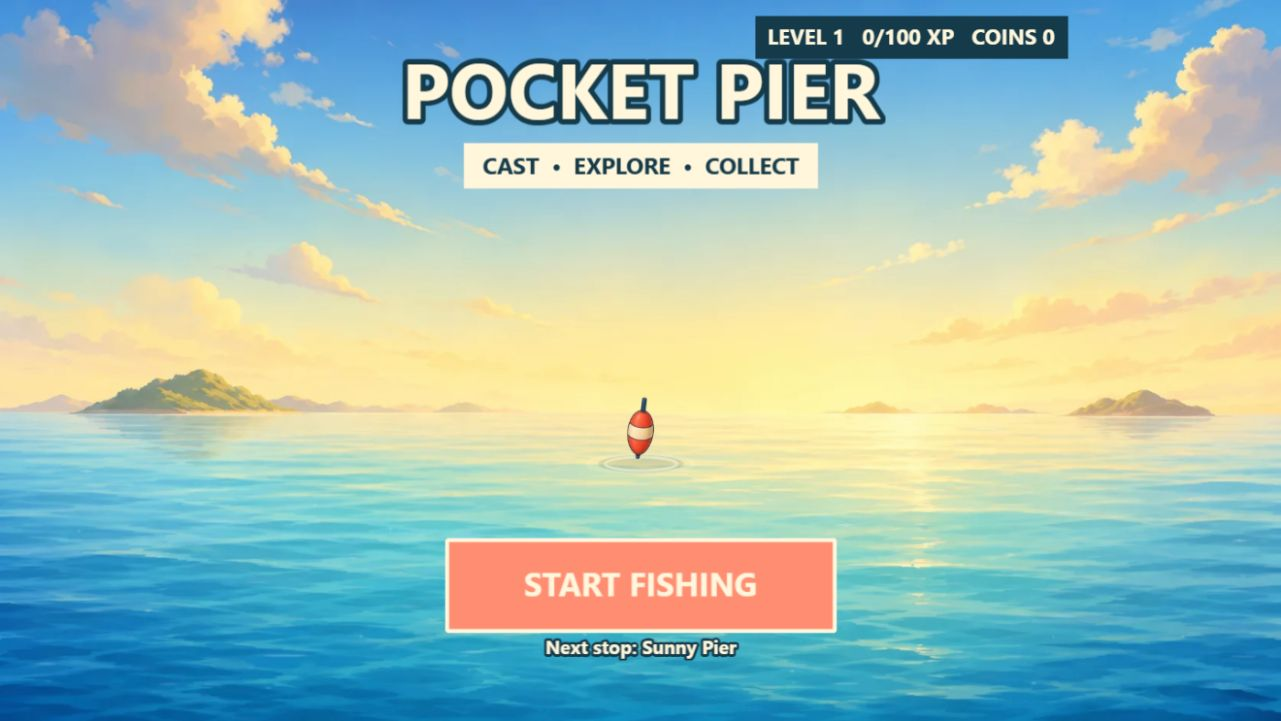
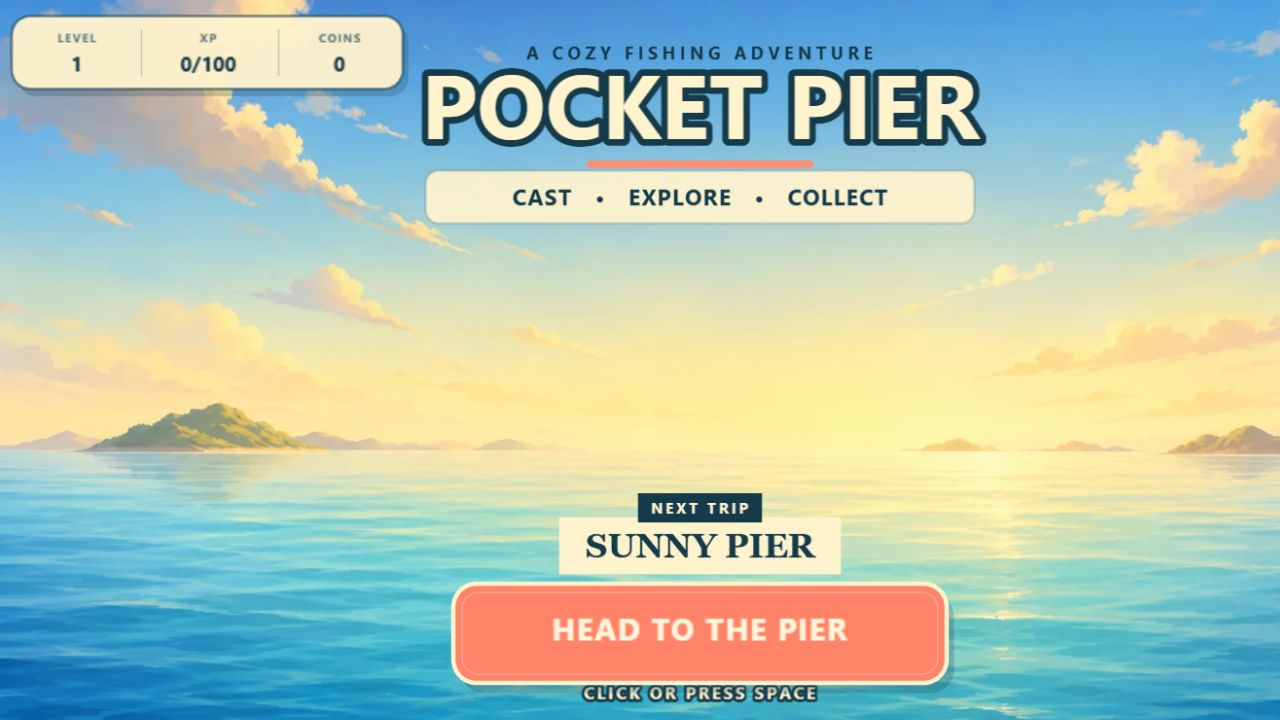
Redesign main menu presentation

diff --git a/src/scenes/MainMenuScene.ts b/src/scenes/MainMenuScene.ts
@@ -4,8 +4,6 @@ import { COLORS, GAME_WIDTH } from '../core/GameConfig';
 import { compactViewport, configureSceneRendering, visibleGameBounds } from '../core/RenderQuality';
 import { SaveService } from '../core/SaveService';
 import { PortalBridge } from '../core/PortalBridge';
-import { button } from '../ui/Button';
-import { bobberStyle } from '../gameplay/Cosmetics';
 
 export class MainMenuScene extends Phaser.Scene {
   constructor(){super('Menu')}
@@ -21,39 +19,48 @@ export class MainMenuScene extends Phaser.Scene {
     this.add.image(w/2,270,'menu-ocean-morning').setDisplaySize(960,540);
     const shimmer=this.add.image(w/2,270,'menu-water-shimmer').setDisplaySize(960,540).setAlpha(.2);
 
+    const eyebrow=this.add.text(w/2,43,'A COZY FISHING ADVENTURE',{
+      fontFamily:'system-ui',fontSize:'12px',fontStyle:'bold',color:'#153a4a'
+    }).setOrigin(.5).setLetterSpacing(3).setDepth(20);
     const title=this.add.text(w/2,83,'POCKET PIER',{
-      fontFamily:'system-ui',fontSize:'58px',fontStyle:'bold',color:'#fff6dc',stroke:'#153a4a',strokeThickness:8
+      fontFamily:'system-ui',fontSize:'62px',fontStyle:'bold',color:'#fff3ce',stroke:'#153a4a',strokeThickness:9
     }).setOrigin(.5).setDepth(20);
-    const tagline=this.add.text(w/2,139,'CAST  •  EXPLORE  •  COLLECT',{
-      fontFamily:'system-ui',fontSize:'17px',fontStyle:'bold',color:'#153a4a',backgroundColor:'#fff6dc'
-    }).setPadding(14,7).setOrigin(.5).setDepth(20);
+    const titleAccent=this.add.graphics().setDepth(19);
+    const taglinePaper=this.add.graphics().setDepth(18);
+    const tagline=this.add.text(w/2,143,'CAST   •   EXPLORE   •   COLLECT',{
+      fontFamily:'system-ui',fontSize:'15px',fontStyle:'bold',color:'#153a4a'
+    }).setOrigin(.5).setLetterSpacing(1).setDepth(20);
 
-    const bobber=this.add.image(w/2,322,'bobber-basic').setDisplaySize(58,60).setTint(bobberStyle(save).tint).setDepth(12);
-    const bobberShadow=this.add.ellipse(w/2,347,64,13,0x153a4a,.12).setDepth(10);
-    const bobberRing=this.add.ellipse(w/2,347,54,10).setStrokeStyle(2,0xfff6dc,.55).setDepth(11);
     if(!reducedMotion){
       this.tweens.add({targets:shimmer,alpha:{from:.12,to:.25},x:w/2+5,duration:4700,yoyo:true,repeat:-1,ease:'Sine.inOut'});
-      this.tweens.add({targets:bobber,angle:{from:-1.2,to:1.2},duration:2100,yoyo:true,repeat:-1,ease:'Sine.inOut'});
-      this.time.addEvent({delay:2450,loop:true,callback:()=>this.spawnRipple(bobber.x,bobber.y+25)});
       this.scheduleGull(true);
     }
 
-    const startButton=button(this,w/2,438,'START FISHING',()=>this.startFishing(save.lastLocationId),290,68).setDepth(30);
-    const nextStop=this.add.text(w/2,484,`Next stop: ${this.locationLabel(save.lastLocationId)}`,{
-      fontFamily:'system-ui',fontSize:'14px',fontStyle:'bold',color:'#fff6dc',stroke:'#153a4a',strokeThickness:4
-    }).setOrigin(.5).setDepth(20);
-    const progressText=this.add.text(w-18,18,`LEVEL ${progress.level}   ${xpLabel}   COINS ${save.coins}`,{
-      fontFamily:'system-ui',fontSize:'16px',fontStyle:'bold',color:'#fff6dc',backgroundColor:'#153a4a'
-    }).setOrigin(1,0).setPadding(9,7).setDepth(30);
+    const destinationLabel=this.add.text(w/2,351,'NEXT TRIP',{
+      fontFamily:'system-ui',fontSize:'10px',fontStyle:'bold',color:'#fff3ce',backgroundColor:'#153a4a'
+    }).setPadding(9,4).setOrigin(.5).setLetterSpacing(2).setDepth(22);
+    const destinationName=this.add.text(w/2,373,this.locationLabel(save.lastLocationId).toUpperCase(),{
+      fontFamily:'Georgia, serif',fontSize:'23px',fontStyle:'bold',color:'#153a4a',backgroundColor:'#fff3ce'
+    }).setPadding(18,7).setOrigin(.5).setDepth(21);
+    const startButton=this.createPrimaryButton(w/2,438,'HEAD TO THE PIER',()=>this.startFishing(save.lastLocationId));
+    const inputHint=this.add.text(w/2,488,'CLICK OR PRESS SPACE',{
+      fontFamily:'system-ui',fontSize:'11px',fontStyle:'bold',color:'#fff3ce',stroke:'#153a4a',strokeThickness:4
+    }).setOrigin(.5).setLetterSpacing(2).setDepth(20);
+    const progressHud=this.createProgressHud(progress.level,xpLabel,save.coins);
+
     const layout=()=>{
-      const bounds=visibleGameBounds(this),compact=compactViewport(this),top=Math.max(bounds.top+38,68),startY=Math.min(438,bounds.bottom-(compact?96:56));
-      progressText.setText(compact?`LV ${progress.level}   ${xpLabel}   ${save.coins} COINS`:`LEVEL ${progress.level}   ${xpLabel}   COINS ${save.coins}`);
-      title.setPosition(bounds.centerX,top).setFontSize(compact?'48px':'58px');
-      tagline.setPosition(bounds.centerX,top+(compact?49:56)).setFontSize(compact?'15px':'17px');
-      const bobberY=Math.min(322,startY-104);
-      bobber.setPosition(bounds.centerX,bobberY);bobberShadow.setPosition(bounds.centerX,bobberY+25);bobberRing.setPosition(bounds.centerX,bobberY+25);
-      startButton.setPosition(bounds.centerX-w/2,startY-438);nextStop.setPosition(bounds.centerX,compact?startY-47:startY+46);
-      progressText.setPosition(Math.min(bounds.right-14,800),bounds.top+(compact?72:12)).setFontSize(compact?'13px':'16px');
+      const bounds=visibleGameBounds(this),compact=compactViewport(this),top=Math.max(bounds.top+39,73),startY=Math.min(426,bounds.bottom-(compact?77:58));
+      eyebrow.setPosition(bounds.centerX,top-37).setFontSize(compact?'10px':'12px');
+      title.setPosition(bounds.centerX,top).setFontSize(compact?'47px':'62px');
+      const taglineY=top+(compact?53:62);tagline.setPosition(bounds.centerX,taglineY).setFontSize(compact?'12px':'15px');
+      titleAccent.clear().fillStyle(COLORS.coral,1).fillRoundedRect(bounds.centerX-(compact?64:78),top+(compact?27:37),compact?128:156,5,3);
+      taglinePaper.clear().fillStyle(0xfff3ce,.93).lineStyle(2,COLORS.navy,.14)
+        .fillRoundedRect(bounds.centerX-(compact?159:188),taglineY-(compact?15:18),compact?318:376,compact?30:36,9)
+        .strokeRoundedRect(bounds.centerX-(compact?159:188),taglineY-(compact?15:18),compact?318:376,compact?30:36,9);
+      destinationLabel.setPosition(bounds.centerX,startY-78);destinationName.setPosition(bounds.centerX,startY-52).setFontSize(compact?'19px':'23px');
+      startButton.setPosition(bounds.centerX,startY+8).setScale(compact?.88:1);
+      inputHint.setVisible(!compact).setPosition(bounds.centerX,startY+48).setFontSize('11px');
+      progressHud.setScale(compact?.84:1).setPosition(bounds.left+(compact?118:142),bounds.top+(compact?23:36));
     };
     layout();this.events.on('render-quality-changed',layout);
 
@@ -72,9 +79,32 @@ export class MainMenuScene extends Phaser.Scene {
     return 'Sunny Pier';
   }
 
-  private spawnRipple(x:number,y:number){
-    const ripple=this.add.ellipse(x,y,48,10).setStrokeStyle(2,0xfff6dc,.48).setDepth(9);
-    this.tweens.add({targets:ripple,scaleX:2.1,scaleY:1.55,alpha:0,duration:1450,ease:'Sine.easeOut',onComplete:()=>ripple.destroy()});
+  private createPrimaryButton(x:number,y:number,label:string,action:()=>void){
+    const width=338,height=68,art=this.add.graphics();
+    const text=this.add.text(0,-2,label,{fontFamily:'system-ui',fontSize:'21px',fontStyle:'bold',color:'#fff6dc'}).setOrigin(.5).setLetterSpacing(1);
+    const draw=(hover=false,pressed=false)=>{
+      art.clear().fillStyle(COLORS.navy,.24).fillRoundedRect(-width/2+5,-height/2+7,width,height,16)
+        .fillStyle(pressed?0xe76f56:hover?0xff9e83:0xff8369,1).fillRoundedRect(-width/2,-height/2,width,height,16)
+        .lineStyle(3,0xfff3ce,1).strokeRoundedRect(-width/2,-height/2,width,height,16)
+        .lineStyle(1,0xffffff,.26).strokeRoundedRect(-width/2+6,-height/2+6,width-12,height-12,11);
+    };
+    draw();
+    const container=this.add.container(x,y,[art,text]).setSize(width,height).setDepth(30).setInteractive({useHandCursor:true});
+    container.on('pointerover',()=>draw(true)).on('pointerout',()=>draw()).on('pointerdown',()=>draw(false,true)).on('pointerup',()=>{draw(true);AudioService.unlock();AudioService.uiSelect();action()});
+    return container;
+  }
+
+  private createProgressHud(level:number,xp:string,coins:number){
+    const width=268,height=50,art=this.add.graphics();
+    art.fillStyle(COLORS.navy,.22).fillRoundedRect(-width/2+4,-height/2+5,width,height,13)
+      .fillStyle(0xfff3ce,.95).fillRoundedRect(-width/2,-height/2,width,height,13)
+      .lineStyle(2,COLORS.navy,.5).strokeRoundedRect(-width/2,-height/2,width,height,13)
+      .lineStyle(1,COLORS.navy,.22).lineBetween(-45,-16,-45,16).lineBetween(49,-16,49,16);
+    const cell=(x:number,label:string,value:string)=>[
+      this.add.text(x,-10,label,{fontFamily:'system-ui',fontSize:'8px',fontStyle:'bold',color:'#54717a'}).setOrigin(.5).setLetterSpacing(1),
+      this.add.text(x,8,value,{fontFamily:'system-ui',fontSize:'14px',fontStyle:'bold',color:'#153a4a'}).setOrigin(.5)
+    ];
+    return this.add.container(0,0,[art,...cell(-89,'LEVEL',String(level)),...cell(1,'XP',xp.replace(' XP','')),...cell(91,'COINS',String(coins))]).setDepth(31);
   }
 
   private scheduleGull(firstFlight=false){
@@ -87,9 +117,6 @@ export class MainMenuScene extends Phaser.Scene {
     const gull=this.add.image(-80,y,keys[0]).setDisplaySize(115,115).setDepth(4);
     let frame=0;
     const flap=this.time.addEvent({delay:165,loop:true,callback:()=>{frame=(frame+1)%keys.length;gull.setTexture(keys[frame]).setDisplaySize(115,115)}});
-    this.tweens.add({
-      targets:gull,x:1040,y:y-Phaser.Math.Between(6,20),duration:Phaser.Math.Between(8200,9800),ease:'Sine.inOut',
-      onComplete:()=>{flap.destroy();gull.destroy();this.scheduleGull()}
-    });
+    this.tweens.add({targets:gull,x:1040,y:y-Phaser.Math.Between(6,20),duration:Phaser.Math.Between(8200,9800),ease:'Sine.inOut',onComplete:()=>{flap.destroy();gull.destroy();this.scheduleGull()}});
   }
 }
